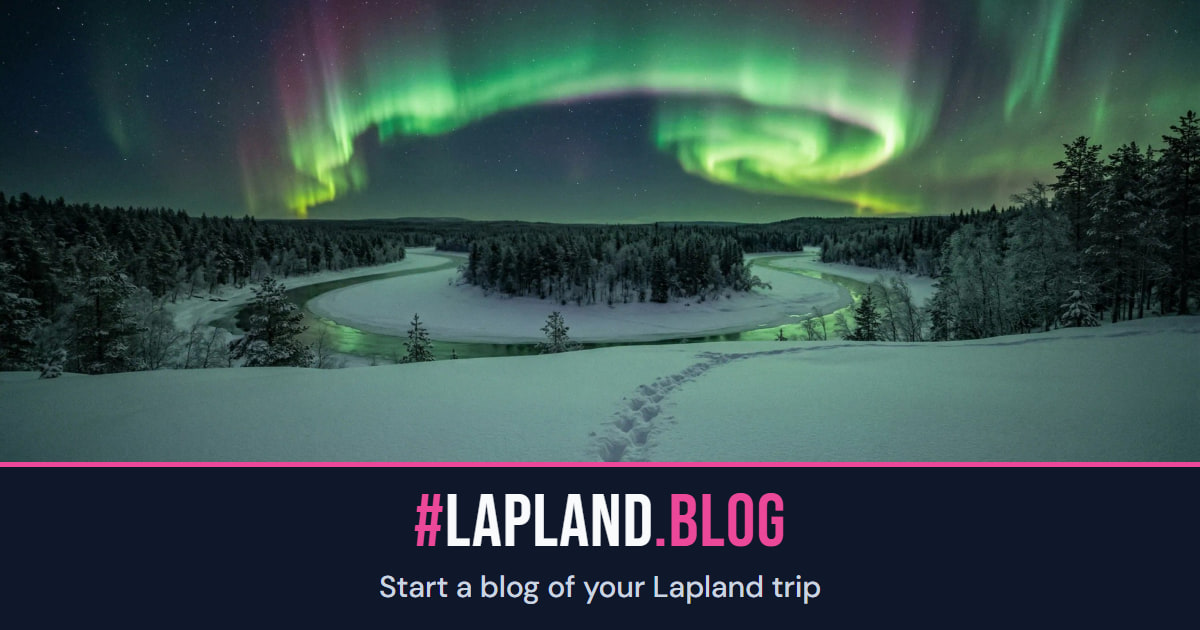
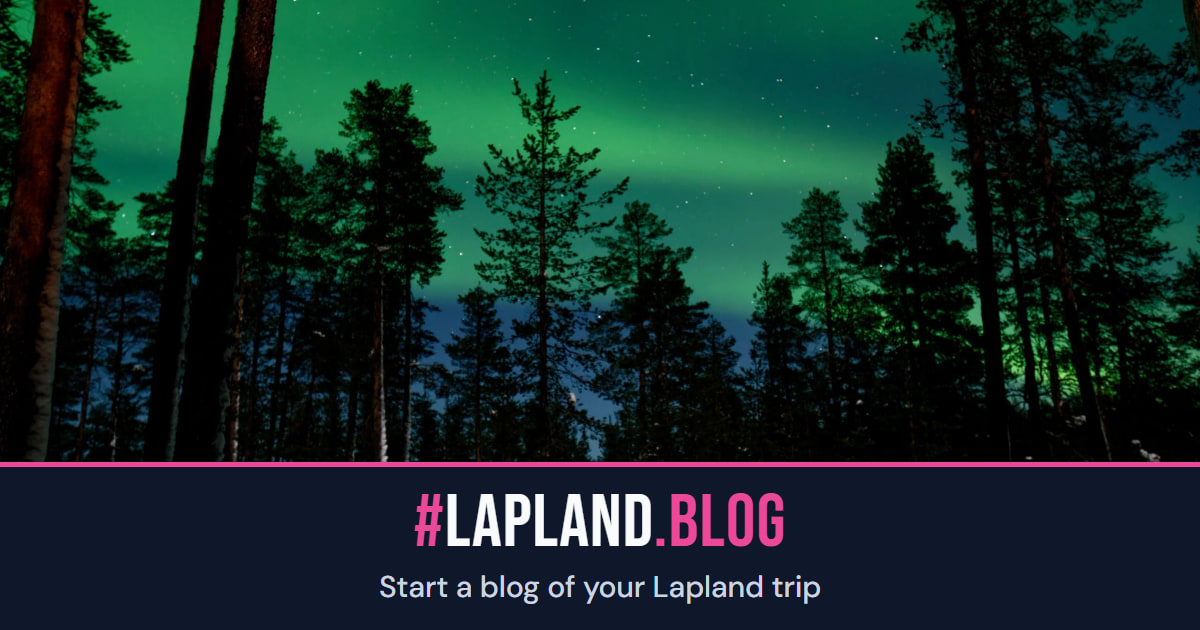
Jakokortti: talvikortti uudesta talviheroista (Pexels, Gu Bra)
9.10. talvihero vaihtui tekoälykuvasta aitoon revontulikuvaan (Pexels 17648905),
joten talvikortin pohja ei vastannut enää sivuston heroa (gate:og). Kuva on
Pexels-lisenssillä (ei BY-SA), joten kortti tehdään suoraan herosta eikä
rekisteriin tarvita og.korttikuva-kiinnitystä. Kuvaus ennallaan: "Lapland
landscape" sopii molempiin kausiin ja on käännetty og-alt.json:iin.

Tehty scripts/og/harvest_heroes.mjs + gen_cards.mjs + install.mjs (lv-ops),
audit.mjs --only: OK (?v=fefdb402 = sisällön tiiviste joka esiintymässä).

diff --git a/index.html b/index.html
@@ -224,15 +224,15 @@
       });
     </script>
       <!-- Open Graph image (1200×630 JPEG) -->
-    <meta property="og:image" content="https://lapland.blog/og.jpg?v=4dfad215" />
-    <meta property="og:image:secure_url" content="https://lapland.blog/og.jpg?v=4dfad215" />
+    <meta property="og:image" content="https://lapland.blog/og.jpg?v=fefdb402" />
+    <meta property="og:image:secure_url" content="https://lapland.blog/og.jpg?v=fefdb402" />
     <meta property="og:image:type" content="image/jpeg" />
     <meta property="og:image:width" content="1200" />
     <meta property="og:image:height" content="630" />
     <meta property="og:image:alt" content="Lapland landscape. #LAPLAND.BLOG" />
     <!-- Twitter card -->
     <meta name="twitter:card" content="summary_large_image" />
-    <meta name="twitter:image" content="https://lapland.blog/og.jpg?v=4dfad215" />
+    <meta name="twitter:image" content="https://lapland.blog/og.jpg?v=fefdb402" />
     <meta name="twitter:image:alt" content="Lapland landscape. #LAPLAND.BLOG" />
       <!-- Favicon stack (LV ecosystem unified design) -->
     <link rel="icon" href="/favicon.svg?v=20260626b" type="image/svg+xml" />

diff --git a/src/lib/seo.ts b/src/lib/seo.ts
@@ -21,7 +21,7 @@ const SITE = 'https://lapland.blog';
 // Site share card, the same URL the prerenderer writes. ?v= is the content hash of
 // public/og-summer.jpg + og-winter.jpg; lv-ops scripts/og/install.mjs rewrites it
 // here whenever the card changes.
-const DEFAULT_IMAGE = 'https://lapland.blog/og.jpg?v=4dfad215';
+const DEFAULT_IMAGE = 'https://lapland.blog/og.jpg?v=fefdb402';
 
 // Share image the prerenderer wrote for the URL the visitor landed on. Read once at
 // module load, before any effect runs: on that URL it is kept, so crawlers that run
